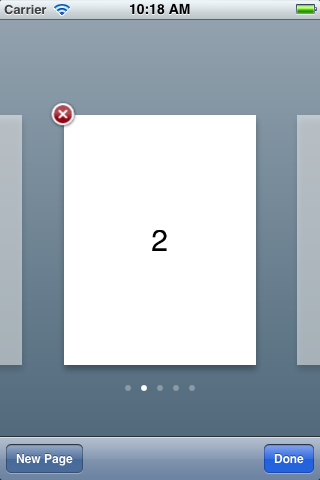
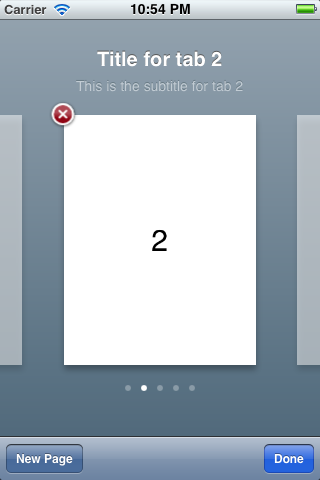
Add title and subtitle above tab

Changed region(s): [[0.25, 0.0938, 0.75, 0.1875], [0.4062, 0.0, 0.5938, 0.0312]]

diff --git a/MOTabView/MOTabView.m b/MOTabView/MOTabView.m
@@ -72,6 +72,8 @@ static const float kWidthFactor = 0.73;
     UIView *_backgroundView;
     MOScrollView *_scrollView;
     UIPageControl *_pageControl;
+    UILabel *_titleLabel;
+    UILabel *_subtitleLabel;
 
     MOTabContentView *_leftTabContentView;
     MOTabContentView *_centerTabContentView;
@@ -140,8 +142,39 @@ static const float kWidthFactor = 0.73;
 
     gradientLayer.colors = [NSArray arrayWithObjects:(id) lightGray.CGColor, (id) darkGray.CGColor, nil];
     [_backgroundView.layer addSublayer:gradientLayer];
-
     [self addSubview:_backgroundView];
+
+    // title label
+    CGRect titleFrame = CGRectMake(10, 19, self.bounds.size.width-20, 40);
+    _titleLabel = [[UILabel alloc] initWithFrame:titleFrame];
+    _titleLabel.textColor = [UIColor whiteColor];
+    _titleLabel.backgroundColor = [UIColor clearColor];
+    UIColor *shadowColor = [UIColor colorWithRed:0.4
+                                           green:0.47
+                                            blue:0.51
+                                           alpha:1];
+    _titleLabel.shadowColor = [UIColor darkGrayColor];
+    _titleLabel.shadowOffset = CGSizeMake(0, -1);
+    _titleLabel.textAlignment = UITextAlignmentCenter;
+    _titleLabel.font = [UIFont boldSystemFontOfSize:20];
+    _titleLabel.lineBreakMode = UILineBreakModeMiddleTruncation;
+    [self insertSubview:_titleLabel aboveSubview:_backgroundView];
+
+    // subtitle label
+    CGRect subtitleFrame = CGRectMake(10, 46, self.bounds.size.width-20, 40);
+    _subtitleLabel = [[UILabel alloc] initWithFrame:subtitleFrame];
+    UIColor *subtitleColor = [UIColor colorWithRed:0.76
+                                             green:0.8
+                                              blue:0.83
+                                             alpha:1];
+    _subtitleLabel.textColor = subtitleColor;
+    _subtitleLabel.backgroundColor = [UIColor clearColor];
+    _subtitleLabel.shadowColor = shadowColor;
+    _subtitleLabel.shadowOffset = CGSizeMake(0, -1);
+    _subtitleLabel.textAlignment = UITextAlignmentCenter;
+    _subtitleLabel.font = [UIFont systemFontOfSize:14];
+    _subtitleLabel.lineBreakMode = UILineBreakModeMiddleTruncation;
+    [self insertSubview:_subtitleLabel aboveSubview:_backgroundView];
 
     // page control
     CGRect pageControlFrame = CGRectMake(0, 350, 320, 36);
@@ -152,7 +185,6 @@ static const float kWidthFactor = 0.73;
     [_pageControl addTarget:self
                      action:@selector(changePage:)
            forControlEvents:UIControlEventValueChanged];
-
     [self insertSubview:_pageControl aboveSubview:_backgroundView];
 
     // scrollview
@@ -166,8 +198,7 @@ static const float kWidthFactor = 0.73;
 // TODO: Remove this hack
     _scrollView.backgroundColor = [UIColor colorWithWhite:1 alpha:0.01];
     // paging of the scrollview is implemented by using the delegate methods
-
-    [self insertSubview:_scrollView aboveSubview:_pageControl];
+    [self insertSubview:_scrollView aboveSubview:_titleLabel];
 
     // standard adding style is the one used by safari prior to iOS6
     _addingStyle = MOTabViewAddingAtLastIndex;
@@ -202,6 +233,7 @@ static const float kWidthFactor = 0.73;
         [_centerTabContentView addContentView:contentView];
         [_centerTabContentView selectAnimated:NO];
         [_scrollView addSubview:_centerTabContentView];
+        [self updateTitles];
 
         // initialize right view
         _rightTabContentView = [self tabContentViewAtIndex:_currentIndex+1];
@@ -272,6 +304,15 @@ static const float kWidthFactor = 0.73;
     if (_delegateRespondsToDidEdit) {
         [_delegate tabView:self didEditView:_editingStyle atIndex:_currentIndex];
     }
+}
+
+
+#pragma mark - Updating Titles
+
+- (void)updateTitles {
+
+    _titleLabel.text = [_dataSource titleForIndex:_currentIndex];
+    _subtitleLabel.text = [_dataSource subtitleForIndex:_currentIndex];
 }
 
 
@@ -357,6 +398,8 @@ static const float kWidthFactor = 0.73;
 
             _currentIndex = newIndex;
 
+            [self updateTitles];
+
             // scroll one view to the right
             [_leftTabContentView removeFromSuperview];
 
@@ -375,6 +418,8 @@ static const float kWidthFactor = 0.73;
         } else if (newIndex < _currentIndex) {
 
             _currentIndex = newIndex;
+
+            [self updateTitles];
 
             // scroll one view to the left
             [_rightTabContentView removeFromSuperview];

diff --git a/Example Application/ExampleViewController.m b/Example Application/ExampleViewController.m
@@ -94,6 +94,16 @@
     return _model.count;
 }
 
+- (NSString *)titleForIndex:(NSInteger)index {
+    
+    return [NSString stringWithFormat:@"Title for tab %d", index+1];
+}
+
+- (NSString *)subtitleForIndex:(NSInteger)index {
+    
+    return [NSString stringWithFormat:@"This is the subtitle for tab %d", index+1];
+}
+
 
 #pragma mark - TabViewDelegate
 

diff --git a/MOTabView/MOTabViewController.m b/MOTabView/MOTabViewController.m
@@ -117,6 +117,16 @@
     return 0;
 }
 
+- (NSString *)titleForIndex:(NSInteger)index {
+    
+    return @"";
+}
+
+- (NSString *)subtitleForIndex:(NSInteger)index {
+
+    return @"";
+}
+
 
 #pragma mark - MOTabViewDelegate
 

diff --git a/MOTabView/MOTabView.h b/MOTabView/MOTabView.h
@@ -52,6 +52,11 @@
 
 - (NSInteger)numberOfViewsInTabView:(MOTabView *)tabView;
 
+@optional
+- (NSString *)titleForIndex:(NSInteger)index;
+
+- (NSString *)subtitleForIndex:(NSInteger)index;
+
 
 @end
 
